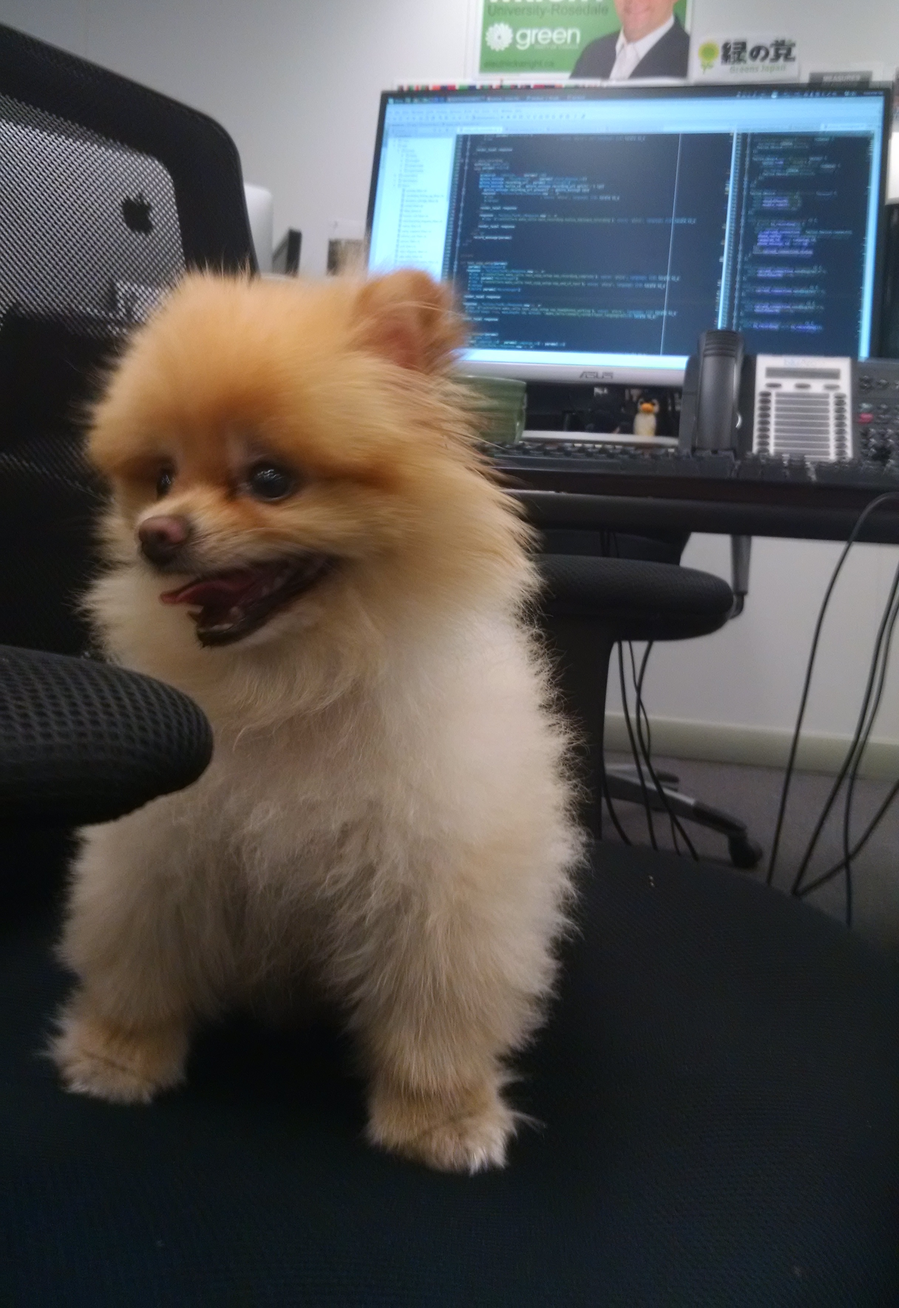
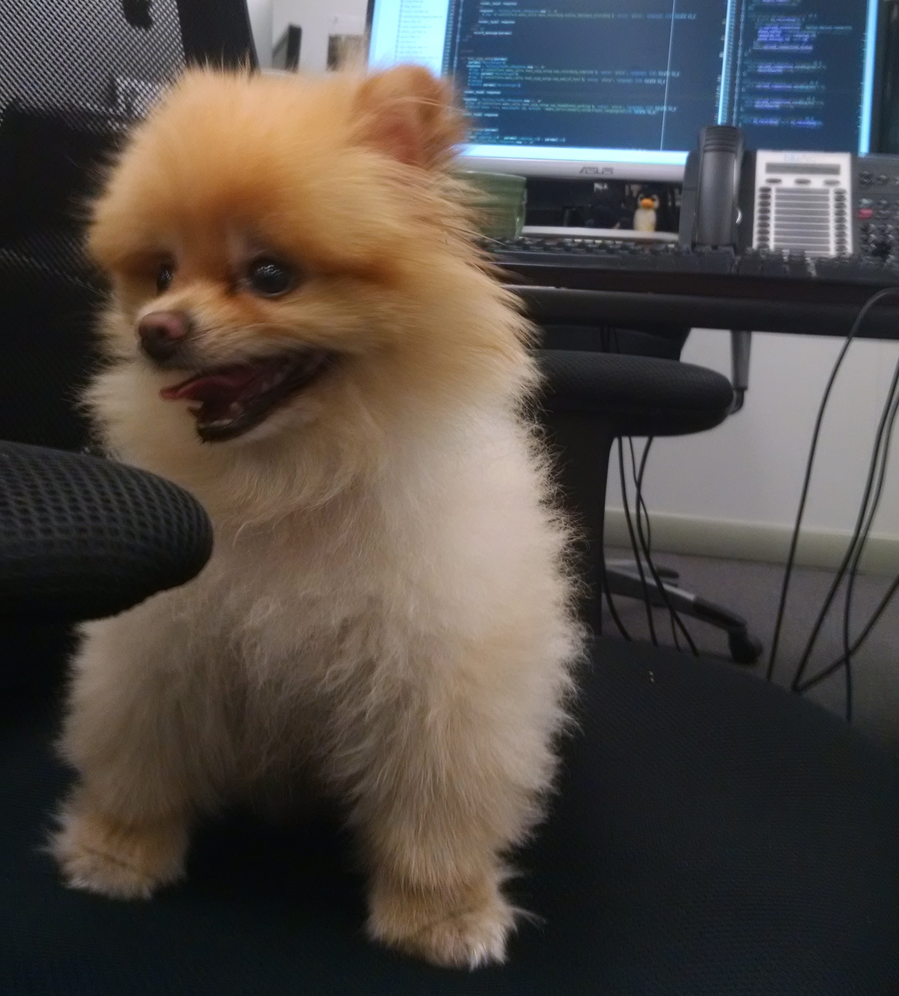
best of buddies

diff --git a/index.html b/index.html
@@ -20,7 +20,11 @@
         <![endif]-->
 
         <!-- Add your site or application content here -->
-        <p>Hello world! This is HTML5 Boilerplate.</p>
+        <img class="center fit" src="img/ruby_pom.jpg">
+        <audio autoplay loop>
+  		<source src="img/domandpom.mp3" type="audio/mpeg">
+		Your browser does not support the audio element.
+	</audio>
 
         <script src="https://ajax.googleapis.com/ajax/libs/jquery/1.11.3/jquery.min.js"></script>
         <script>window.jQuery || document.write('<script src="js/vendor/jquery-1.11.3.min.js"><\/script>')</script>

diff --git a/css/main.css b/css/main.css
@@ -95,7 +95,18 @@ textarea {
    Author's custom styles
    ========================================================================== */
 
+body {
+    background-color: black;
+}
 
+.fit { /* set relative picture size */
+    max-width: 100%;
+    /* max-height: 100%; */
+}
+.center {
+    display: block;
+    margin: auto;
+}
 
 
 

diff --git a/js/main.js b/js/main.js
@@ -1,0 +1,7 @@
+function set_body_height() { // set body height = window height
+    $('body').height($(window).height());
+}
+$(document).ready(function() {
+    $(window).bind('resize', set_body_height);
+    set_body_height();
+});
